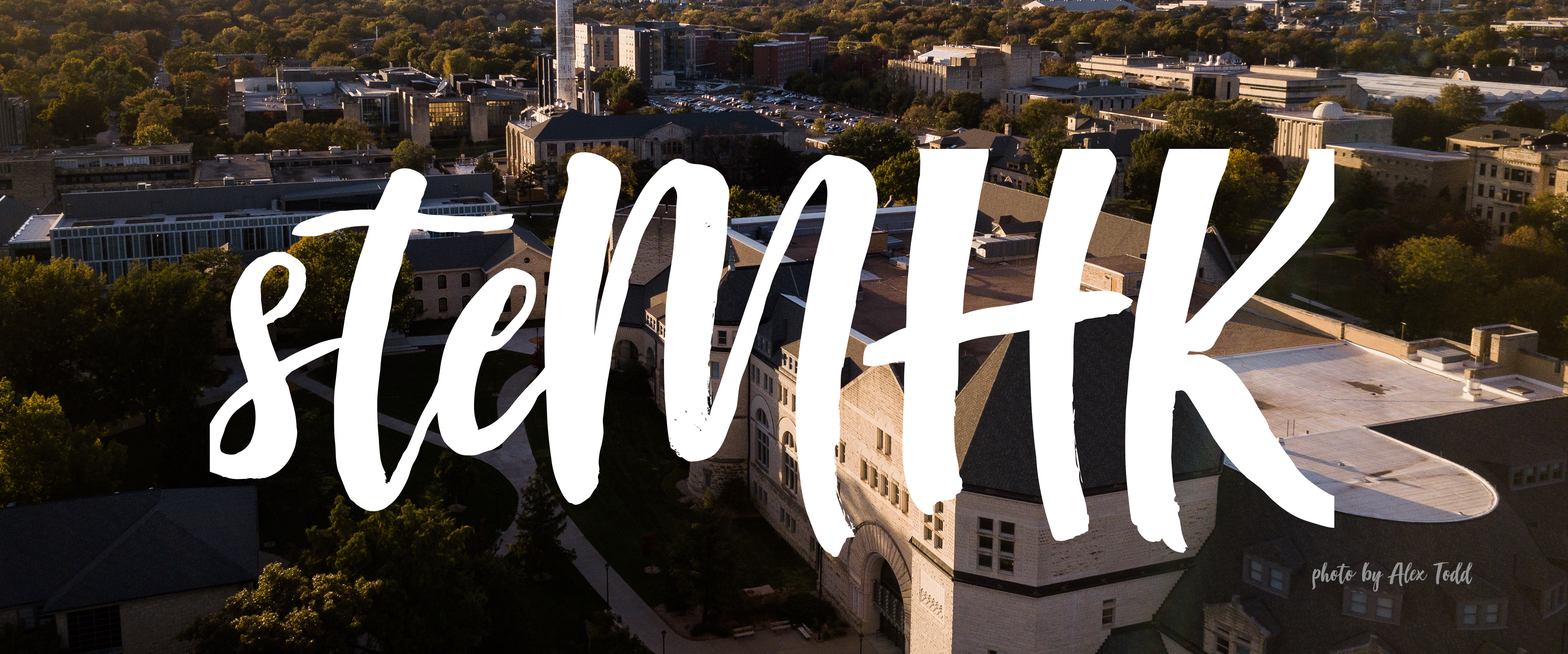
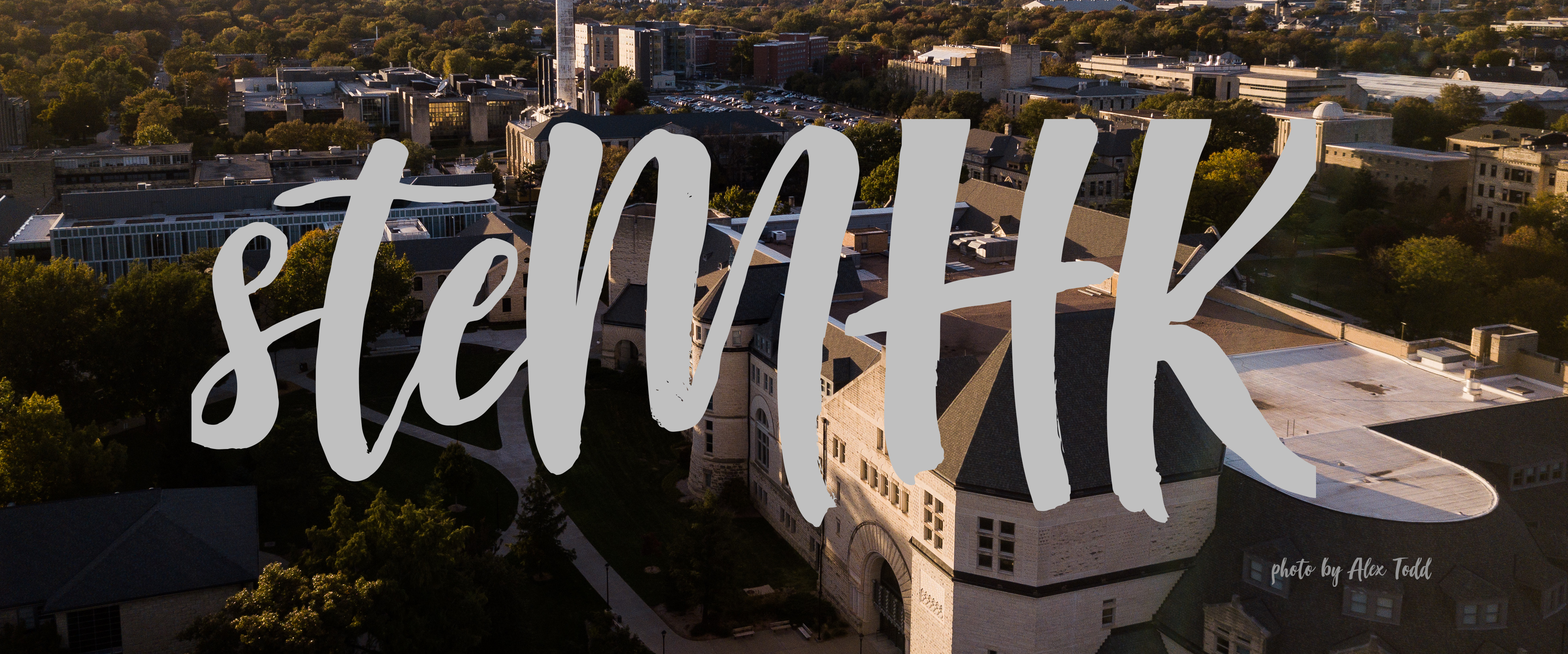
updates
added buttons

Changed region(s): [[0.1249, 0.1552, 0.8743, 0.8381], [0.8119, 0.8381, 0.9368, 0.9002]]

diff --git a/style.css b/style.css
@@ -60,16 +60,7 @@ p {
 ul {list-style-type: none;}
 body {font-family: Verdana, sans-serif;}
 
-/* Month header */
-.box {
-    padding: 30px 25px;
-    width: 100%;
-    background: #97AABd;
-    text-align: center;
-    font-family: sans-serif;
-    font-size: 30px;
-    color: #474853;
-}
+
 
 .button {
   background-color: #f4511e;
@@ -89,10 +80,55 @@ body {font-family: Verdana, sans-serif;}
 
 
 
+.box{
+
+background: silver;
+text-align: center;
+color: #5da2d5;
+
+}
+.box:hover{
+
+  background: darkgrey;
+
+}
+
+.button {
+
+color: black;
+padding: 16px 32px;
+margin: 4px 2px;
+ display: inline-block;
+ border-radius: 10px;
+background: #f3d250;
+}
+.button:hover{
+      box-shadow: 0 12px 16px 0 rgba(0,0,0,0.24), 0 17px 50px 0 rgba(0,0,0,0.19);
+  }
+
+}
+.button1{
+size: 45px;
+background: #f3d250;
+
+
+}
+.button2{
+background: #90ccf4;
+
+}
+
+.button3{
+background: #f78888;
 
 
 
+}
 
+.button4{
+
+  background: #ececec;
+}
 hr {
 height: 4px;
 color: #A1D6E2;

diff --git a/steMHK.html b/steMHK.html
@@ -19,16 +19,19 @@
 
   <div class="box">
 
-      STEM events in Manhattan, Kansas
+    <br>  STEM events in Manhattan, Kansas <br> <br>
   </div>
 
 
-  <div class="button">
+<dix class="buttons">
 
-    <button class="w3-button w3-xlarge w3-circle w3-black">+</button>
-    <button class="w3-button w3-xlarge w3-circle w3-teal">+</button>
-    <button class="w3-button w3-xlarge w3-circle w3-red w3-card-4">+</button>
-  </div>
+<button class="button button1">Grade Schoolers</button>
+<button class="button button2">Middle Schoolers</button>
+<button class="button button3">High Schoolers</button>
+<button class = "button button4"> Online Resources</button>
+<div class= "popup">
+</div>
+
 </body>
 
 
